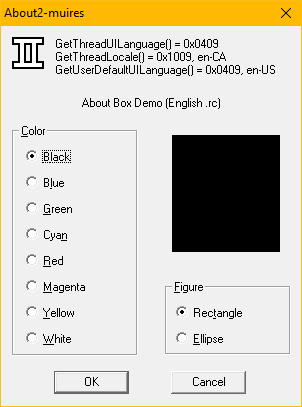
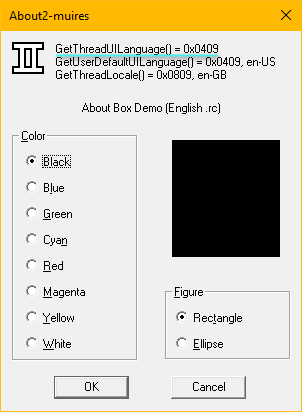
update readme

diff --git a/mswin/About2-muires/README.md b/mswin/About2-muires/README.md
@@ -4,25 +4,35 @@ This project contains three .rc files, each has its distinct `LANGUAGE` statemen
 
 | Filename | LANGUAGE statement |
 | -------- | ------------------ |
-| 0409.rc  | LANGUAGE LANG_ENGLISH, SUBLANG_ENGLISH_US 
-| 0804.rc  | LANGUAGE LANG_CHINESE, SUBLANG_CHINESE_SIMPLIFIED
-| 0404.rc  | LANGUAGE LANG_CHINESE, SUBLANG_CHINESE_TRADITIONAL
+| 0409.rc  | `LANGUAGE LANG_ENGLISH, SUBLANG_ENGLISH_US` 
+| 0804.rc  | `LANGUAGE LANG_CHINESE, SUBLANG_CHINESE_SIMPLIFIED`
+| 0404.rc  | `LANGUAGE LANG_CHINESE, SUBLANG_CHINESE_TRADITIONAL`
 
 
 These .rc files are stored in UTF16 with BOM, so that we do not have to write `#pragma code_page(xxx)` directive to indicate text-encoding within.
 
-To make it compilable by VC2010, I have to use UTF16 with BOM, which is not friendly to some text tools like `git diff`. Later Visual Studio versions(VC2019 etc) allow us to encode them in UTF8 with BOM, which can be recognized by `git diff`.
+To make it compilable by a Visual C++ version as old as VC2010, I have to use UTF16 with BOM, which is not friendly to some text tools like `git diff`. Later Visual Studio versions(VC2019 etc) allow us to encode them in UTF8 with BOM, which can be recognized by `git diff`.
 
 From this program, I get to know the following facts.
 
 If the program does not call `SetThreadUILanguage()`, Windows will use the LANGID from `GetUserDefaultUILanguage()` as actual resource `LANGUAGE` . To see this in effect, run `About2-muires.exe` with no parameter.
 
-If the program call `SetThreadUILanguage(langid)` , Windows will use this *langid* as resource `LANGUAGE`. This can be verified by passing *langid* as parameter to `About2-muires.exe`.
+If the program calls `SetThreadUILanguage(langid)` , Windows will use this *langid* as resource `LANGUAGE`. This can be verified by passing *langid* as parameter to `About2-muires.exe`.
 
 `GetUserDefaultUILanguage()` indicates current Windows user-interface language(Windows display language). 
 
 * In Windows XP through Windows 7, in order to see different `GetUserDefaultUILanguage()` value than the one default from Windows installation disc, we need to install the so called MUI language packs.
 * In Windows 10, extra language packs can be installed online from Modern Windows Settings.
+
+
+Note for new comers: At WinAPI level, there are three locale spaces perceivable by an application. 
+
+1. First, **system-locale**. It affects ANSI-codepage and OEM-codepage used by application. If you call `MultiByteToWideChar(CP_ACP, ...)`, the system-locale takes action.
+2. Second, **user-locale**. It affects date and time formats used by Explorer, and many other so-called "culture-info".
+3. Third, **UI-language**, or **Windows display language**, identified by a 16-bit LANGID value. It affects Windows user interface language. For example, 
+   - If LANGID=0x0409 (language=English, country=US), notepad is called "Notepad".
+   - If LANGID=0x040C (language=French, country=France), notepad is called "Bloc-notes".
+
 
 On English version of Windows, this program loads English resources:
 
@@ -32,13 +42,11 @@ On Windows with user-interface language set to Traditional Chinese, this program
 
 ![Snap2617-uilang-cht.png](doc/Snap2617-uilang-cht.png) 
 
-On English version of Windows, if I run `About2-muires.exe 0x0404` explicitly, I see Traditional Chinese resources as well:
+On English version of Windows, if I run `About2-muires.exe 0x0804` explicitly, I can see Simplified Chinese resources:
 
-![Snap2618-set-uilang-cht.png](doc/Snap2618-set-uilang-cht.png)
+![Snap2618-set-uilang-chs.png](doc/Snap2618-set-uilang-chs.png)
 
-BTW: As we can see, the value from another Windows API `GetThreadLocale()`, which defaults from intl.cpl user-locale selection, does NOT influence resource `LANGUAGE` picking in any way.
-
-The above is at least true for Windows 7 and Windows 10, while older Windows XP seem to exhibit quite differently.
+BTW: The program shows value from another Windows API `GetThreadLocale()`, whose default value is determined by a very complex rule since Windows 7. This thread-locale value does NOT influence resource `LANGUAGE` picking, at least since Windows XP. Actually, `GetThreadLocale()` is almost an obsolete value since Windows 7.
 
 LANGID value and actual human-language mapping can be queried [here, with hex value](https://ss64.com/locale.html) or [here, Microsoft website](https://learn.microsoft.com/en-us/openspecs/office_standards/ms-oe376/6c085406-a698-4e12-9d4d-c3b0ee3dbc4a).
 
